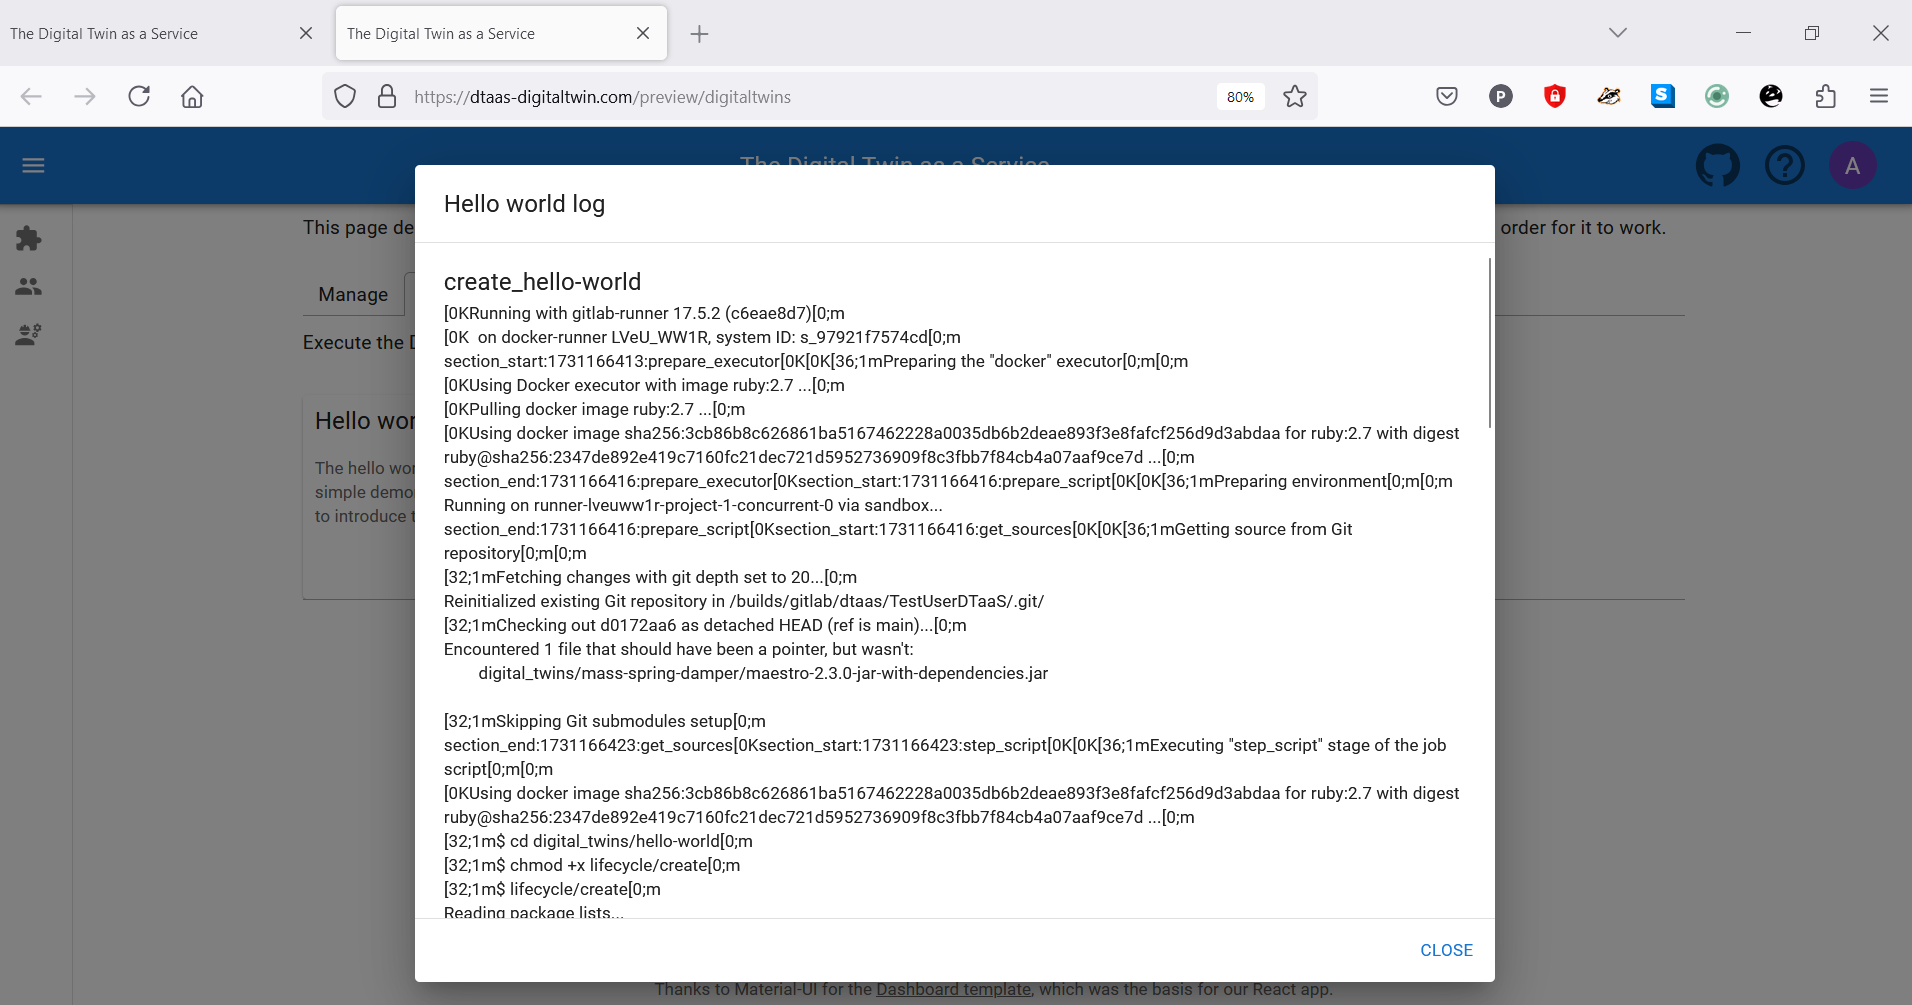
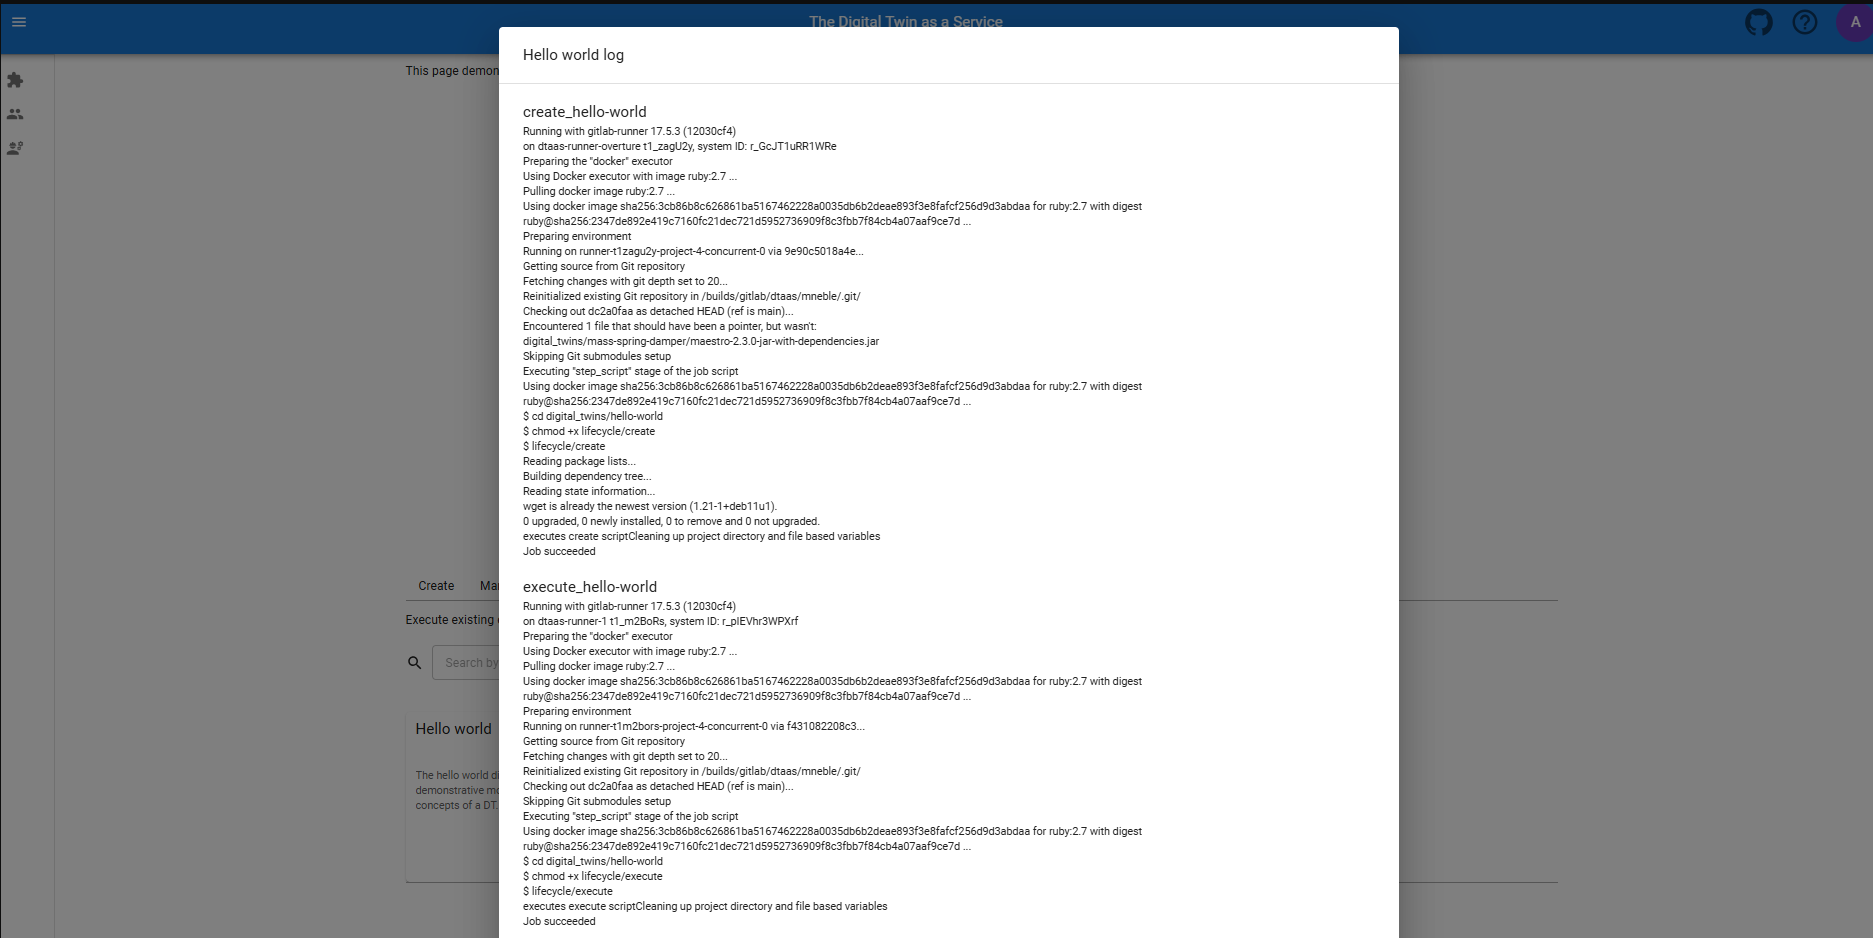
fix the picture

Changed region(s): [[0.0, 0.0, 1.0, 1.0], [0.0, 0.2783, 0.031, 0.3401]]

diff --git a/docs/user/digital-twins/devops/ui.md b/docs/user/digital-twins/devops/ui.md
@@ -61,5 +61,5 @@ The execute tabs shows the possibility of executing multiple digital twins.
 Once an execution of digital twin is complete, you can see the execution
 log as well.
 
-![Digital Twin Execution](https://github.com/user-attachments/assets/66b18f03-0cdf-4146-a429-b721d1ac3b66)
+![Digital Twin Execution Log](dt_execute_log.png)
 
